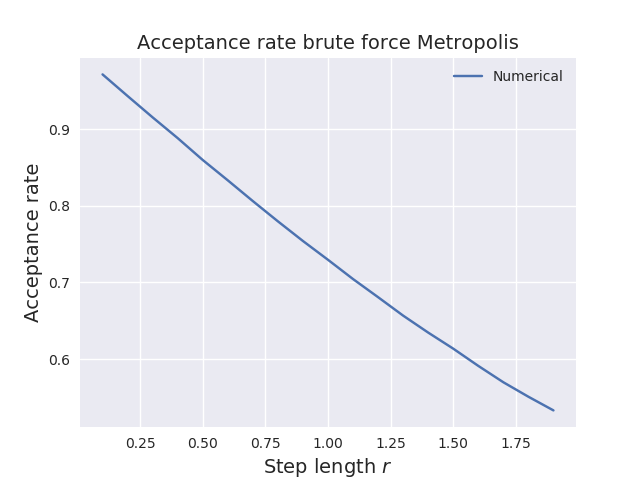
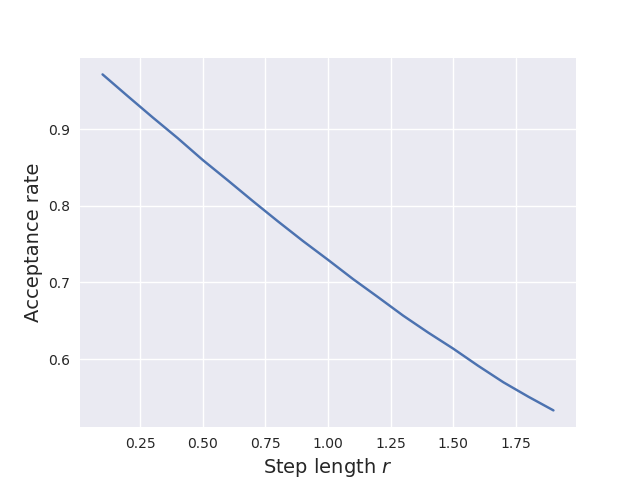
Removed title from plots

Changed region(s): [[0.2188, 0.0625, 0.875, 0.1875]]

diff --git a/Project 1/Python/plot_acceptance.py b/Project 1/Python/plot_acceptance.py
@@ -17,11 +17,11 @@ sns.set()
 label_size = {"size":"14"}
 
 plt.plot(dt, acceptance, label="Numerical")
-plt.title("Acceptance rate Importance sampling", **label_size)
+#plt.title("Acceptance rate Importance sampling", **label_size)
 plt.xlabel("Timestep $\delta t$", **label_size)
 plt.ylabel("Acceptance rate", **label_size)
-plt.legend(loc="best")
-plt.savefig("%s/images/acceptance_IS.png" % dirpath)
+#plt.legend(loc="best")
+plt.savefig("%s/../images/acceptance_IS.png" % dirpath)
 plt.show()
 
 # --- Standard Metropolis ---
@@ -35,9 +35,9 @@ sns.set()
 label_size = {"size":"14"}
 
 plt.plot(dt, acceptance, label="Numerical")
-plt.title("Acceptance rate brute force Metropolis", **label_size)
+#plt.title("Acceptance rate brute force Metropolis", **label_size)
 plt.xlabel("Step length $r$", **label_size)
 plt.ylabel("Acceptance rate", **label_size)
-plt.legend(loc="best")
-plt.savefig("%s/images/acceptance_BF.png" % dirpath)
+#plt.legend(loc="best")
+plt.savefig("%s/../images/acceptance_BF.png" % dirpath)
 plt.show()

diff --git a/Project 1/Python/plot_energy.py b/Project 1/Python/plot_energy.py
@@ -9,21 +9,21 @@ def E_L(alpha):
 
 # Numerical values
 dirpath = os.getcwd()
-data = np.loadtxt("%s/data/local_energy.dat" % dirpath)
+data = np.loadtxt("%s/../data/local_energy.dat" % dirpath)
 label_size = {"size":"14"}
 
 sns.set()
 plt.plot(data[:,0], data[:,1], label="Numerical")
-plt.title("Local energy", **label_size)
+#plt.title("Local energy", **label_size)
 plt.xlabel(r"$\alpha$", **label_size)
 plt.ylabel(r"$E_L(\alpha)$", **label_size)
-plt.legend(loc="best")
-plt.savefig("%s/images/energy.png" % dirpath)
+#plt.legend(loc="best")
+plt.savefig("%s/../images/energy.png" % dirpath)
 plt.show()
 
 plt.plot(data[:,0], data[:,2], label="Numerical")
-plt.title("Variance", **label_size)
+#plt.title("Variance", **label_size)
 plt.xlabel(r"$\alpha$", **label_size)
 plt.ylabel(r"$\sigma$", **label_size)
-plt.legend(loc="best")
-plt.savefig("%s/images/variance.png" % dirpath)
+#plt.legend(loc="best")
+plt.savefig("%s/../images/variance.png" % dirpath)
